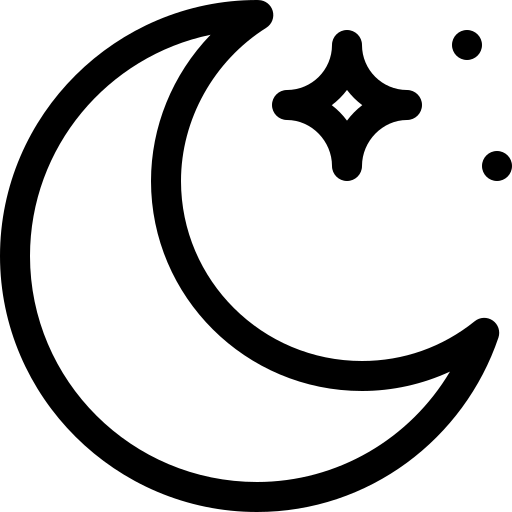
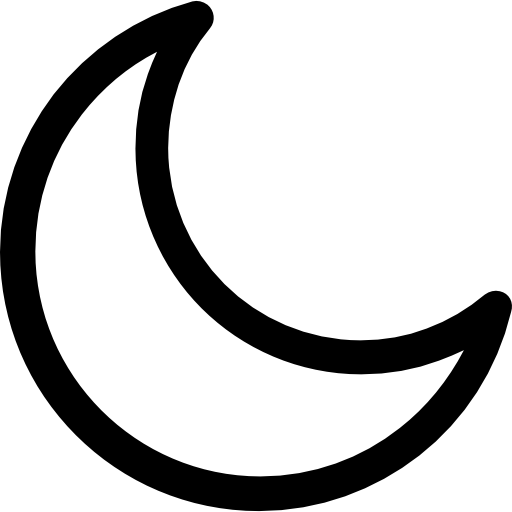
adjusted the toggle button position and dimensions; fix z-index and box-shadow styling for better appearance in light and dark modes

diff --git a/main.css b/main.css
@@ -29,7 +29,7 @@ button {
 }
  
 body {
-   color: var(--dark);         /* Text color for light mode */
+   color: var(--dark); /* Text color for light mode */
    transition: background-color 0.4s ease, color 0.4s ease;
 }
 
@@ -54,13 +54,13 @@ main {
 
 /* Toggle Switch */
 .toggle-switch {
-   position: fixed; /* Use fixed position to keep it in place while scrolling */
-   top: 20px; 
-   right: 40px; 
+   position: absolute;
+   top: 20px;
+   right: 30px;
    display: inline-block;
-   width: 60px;
+   width: 62px;
    height: 30px;
-   z-index: 9999; /* Ensure it's on top of other elements */
+   z-index: 9999;
 }
 
 .toggle-switch input {
@@ -78,16 +78,9 @@ main {
    background-color: #ddd;
    border-radius: 30px;
    cursor: pointer;
-   transition: background 0.3s;
-   box-shadow: inset 0 1px 4px rgba(0, 0, 0, 0.1), inset 0 2px 4px rgba(0, 0, 0, 0.2);
+   transition: background 0.3s, box-shadow 0.3s;
+   box-shadow: inset 0 1px 4px rgba(60, 60, 60, 0.1), inset 0 2px 4px rgba(0, 0, 0, 0.2);
 }
-
-body.dark-mode .slider {
-   box-shadow: inset 0 -1px 4px rgba(255, 255, 255, 0.15), inset 0 -2px 4px rgba(255, 255, 255, 0.1); 
-}
-
-
-
 
 .slider::before {
    content: "";
@@ -95,28 +88,67 @@ body.dark-mode .slider {
    width: 25px;
    height: 25px;
    bottom: 2px;
+   left: 2px;
+
    background-color: white;
    border-radius: 50%;
-   transition: transform 0.4s, background-color 0.3s;  
-   transform: translateX(3px); /* Adjust starting position in light mode */
+   display: flex;
+   align-items: center;
+   justify-content: center;
+   transition: transform 0.4s, background-color 0.3s, box-shadow 0.3s;
+   box-shadow: 
+      rgba(244, 244, 244, 0.853) 0px 2px 3px inset,   
+      rgba(255, 255, 255, 0.4) 0px -2px 3px inset;  
 }
 
-/* Icons */
+
+body.dark-mode .slider {
+   background-color: #444; 
+   box-shadow: 
+      rgba(0, 0, 0, 0.2) 0px 1px 2px inset,
+      rgba(255, 255, 255, 0.716) 0px -1px 2px inset;
+}
+
+body.dark-mode .slider::before {
+   background-color: #bbb;
+   box-shadow: 
+      rgba(249, 249, 249, 0.3) 0px 2px 4px inset,  
+      rgba(255, 255, 255, 0.3) 0px -2px 3px inset; 
+}
+
+
+input:checked + .slider::before {
+   transform: translateX(30px);
+}
+
+input:checked + .slider {
+   background-color: #333;
+   box-shadow: 
+      rgba(0, 0, 0, 0.3) 0px 1px 2px inset,
+      rgba(255, 255, 255, 0.1) 0px -1px 2px inset;
+}
+
+
+
+/* Icons inside the toggle button */
 .icon {
    position: absolute;
    width: 18px;
    height: 18px;
    top: 50%;
    transform: translateY(-50%);
-   transition: opacity 0.3s;
+   transition: left 0.4s, right 0.4s, opacity 0.3s;
 }
 
+/* Sun (Light Mode Icon) */
 .sun {
-   left: 8px;
+   left: 8px; 
+   opacity: 1;
 }
 
+/* Moon (Dark Mode Icon) */
 .moon {
-   right: 8px;
+   right: 8px; 
    opacity: 0;
 }
 
@@ -126,9 +158,7 @@ input:checked + .slider {
 }
 
 input:checked + .slider::before {
-   transform: translateX(30px); 
-   background-color: #ccccccb4;
-
+   transform: translateX(30px);
 }
 
 input:checked + .slider .sun {
@@ -138,8 +168,6 @@ input:checked + .slider .sun {
 input:checked + .slider .moon {
    opacity: 1;
 }
-
-
 
 
 h1 {

diff --git a/index.html b/index.html
@@ -70,5 +70,9 @@
 		</div>
 	</main>
    <script src="main.js"></script>
+
+   <footer>
+<!-- Icons made by Good Ware from Flaticon -->
+   </footer>
 </body>
 </html>
